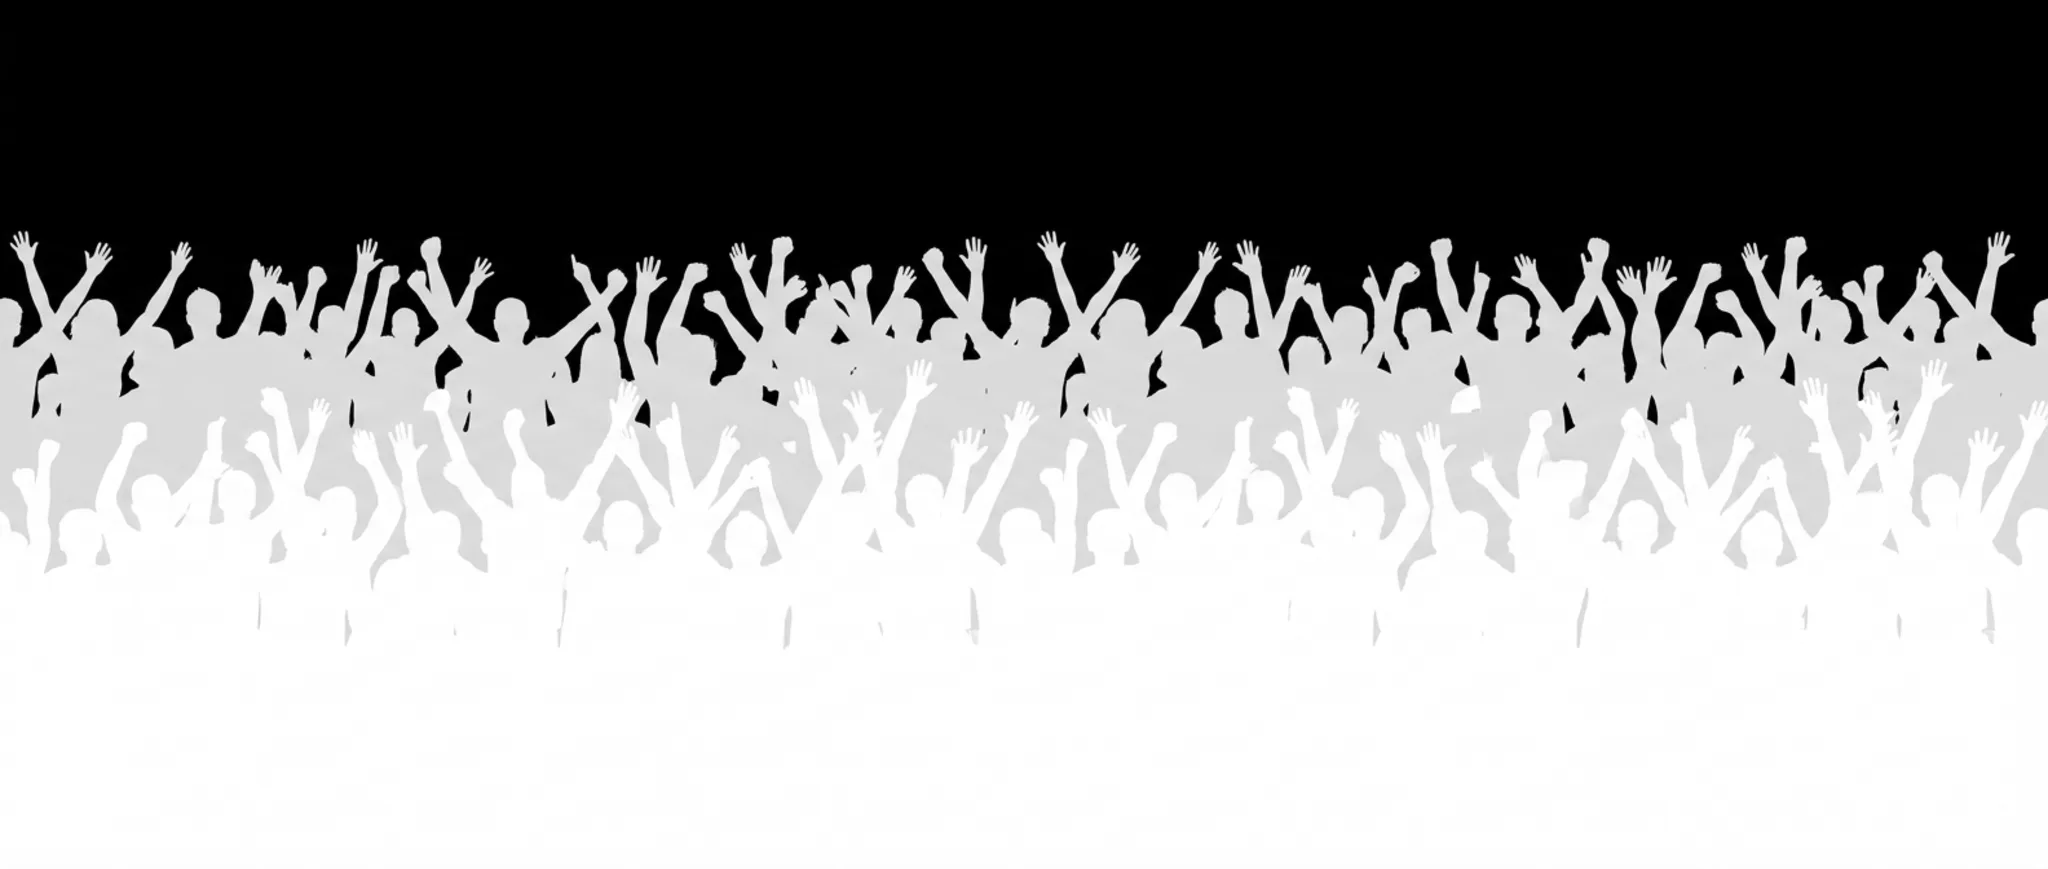
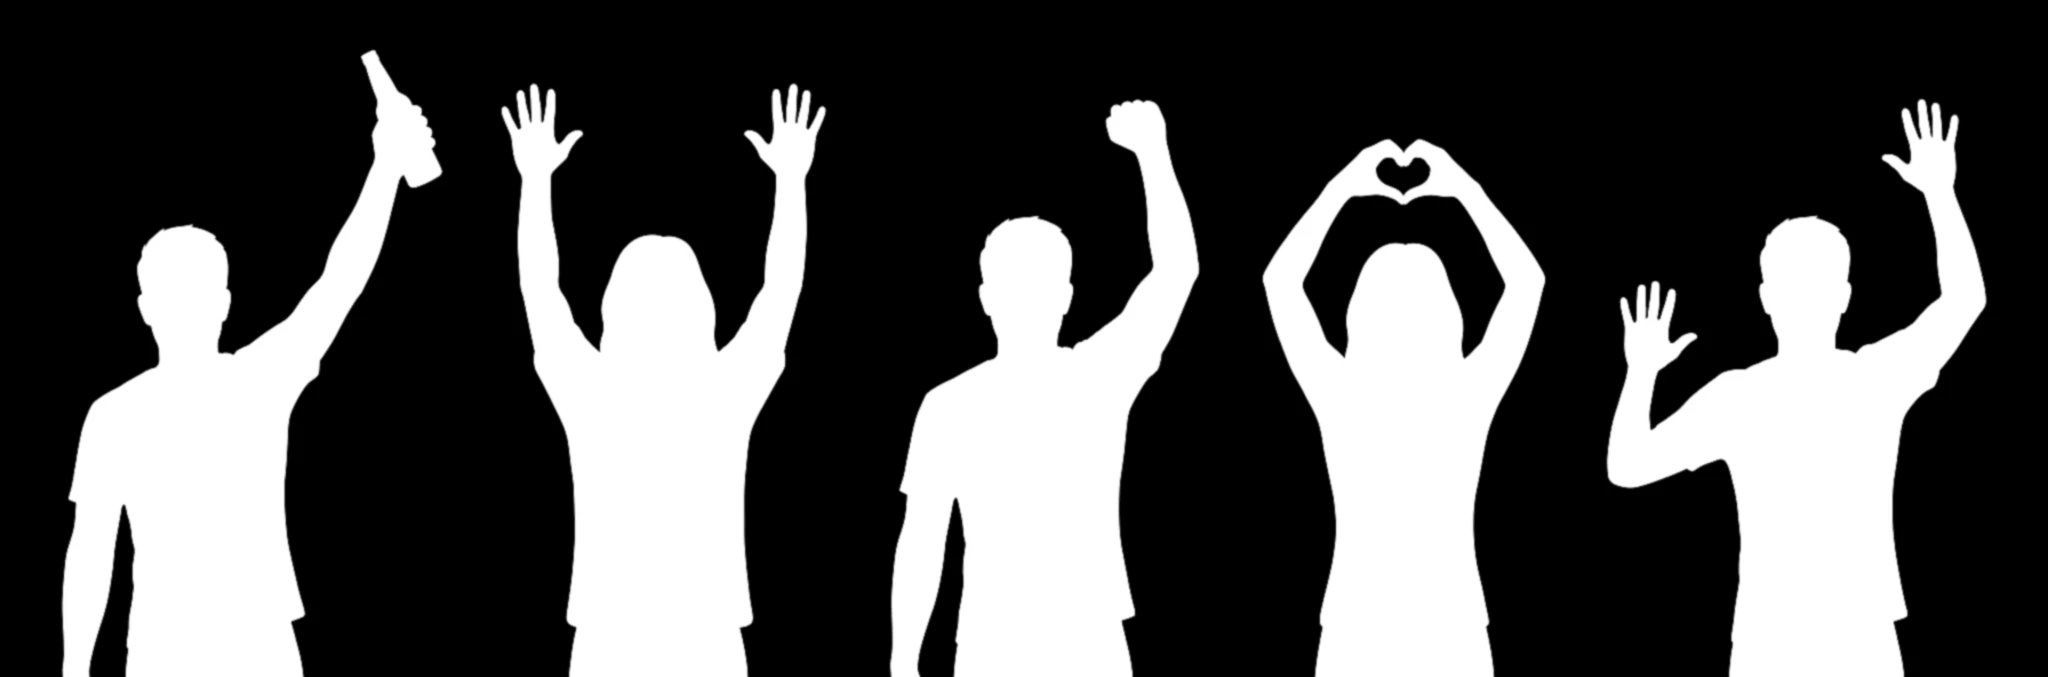
ADRIN: larger label art, front-facing hero bottle, 5 backlit fans, no flicker, slow light play on glass

diff --git a/adrin-vitamin/src/three/Party.tsx b/adrin-vitamin/src/three/Party.tsx
@@ -93,9 +93,8 @@ export function StageBeams() {
       const mat = mats[i]
       tmp.copy(b.second ? rig.accent2 : rig.accent)
       mat.uniforms.uColor.value.copy(tmp)
-      // gentle, slow shimmer — no strobing
-      const flicker = 0.8 + 0.2 * Math.sin(t * 0.9 + b.phase * 2.0)
-      mat.uniforms.uIntensity.value = damp(mat.uniforms.uIntensity.value, 0.42 * rig.beams * flicker, 3, 1 / 60)
+      // constant brightness — the beams only move, they never flicker
+      mat.uniforms.uIntensity.value = damp(mat.uniforms.uIntensity.value, 0.38 * rig.beams, 3, 1 / 60)
     })
   })
 
@@ -166,7 +165,7 @@ export function Bokeh() {
             gl_Position = projectionMatrix * mv;
             gl_PointSize = (90.0 + aSeed * 160.0) * uPR * 7.0 / -mv.z;
             vSeed = aSeed;
-            vTw = 0.6 + 0.4 * sin(uTime * (0.3 + aSeed * 0.6) + aSeed * 60.0);
+            vTw = 0.7 + 0.3 * fract(aSeed * 13.7);
           }`}
         fragmentShader={/* glsl */ `
           uniform vec3 uA; uniform vec3 uB; uniform float uOpacity;
@@ -269,7 +268,7 @@ export function Confetti() {
           void main(){
             if (vAlpha < 0.01) discard;
             vec3 col = vPick < 0.42 ? uA : (vPick < 0.74 ? uB : (vPick < 0.9 ? vec3(0.95) : mix(uA, uB, 0.5)));
-            col *= 0.35 + vGlint * 1.1;
+            col *= 0.5 + vGlint * 0.45;
             gl_FragColor = vec4(col, 0.85 * vAlpha);
           }`}
       />
@@ -279,27 +278,31 @@ export function Confetti() {
 
 /* -------------------------------- Crowd -------------------------------- */
 
+/**
+ * A handful of fans (5 silhouettes) standing behind the bottle, backlit by the stage.
+ * The rim light slowly travels along their outlines — movement only, no flicker.
+ */
 export function Crowd() {
   const mesh = useRef<THREE.Mesh>(null!)
   const tex = useMemo(() => {
     const t = new THREE.TextureLoader().load(crowdUrl)
-    t.wrapS = THREE.MirroredRepeatWrapping
+    t.wrapS = THREE.ClampToEdgeWrapping
     t.wrapT = THREE.ClampToEdgeWrapping
     t.colorSpace = THREE.NoColorSpace
     t.anisotropy = 4
     return t
   }, [])
-  const ASPECT = 2048 / 869
+  const ASPECT = 2048 / 677
   const mat = useMemo(
     () =>
       new THREE.ShaderMaterial({
         uniforms: {
           uTex: { value: tex },
-          uRepeat: { value: 1 },
           uA: { value: rig.accent.clone() },
           uB: { value: rig.accent2.clone() },
           uOpacity: { value: 1 },
           uTime: { value: 0 },
+          uTexel: { value: new THREE.Vector2(1 / 2048, 1 / 677) },
         },
         transparent: true,
         depthWrite: false,
@@ -307,23 +310,38 @@ export function Crowd() {
           varying vec2 vUv;
           void main(){ vUv = uv; gl_Position = projectionMatrix * modelViewMatrix * vec4(position, 1.0); }`,
         fragmentShader: /* glsl */ `
-          uniform sampler2D uTex; uniform float uRepeat; uniform vec3 uA; uniform vec3 uB; uniform float uOpacity; uniform float uTime;
+          uniform sampler2D uTex; uniform vec3 uA; uniform vec3 uB; uniform float uOpacity; uniform float uTime; uniform vec2 uTexel;
           varying vec2 vUv;
+          float S(vec2 p){ return texture2D(uTex, clamp(p, vec2(0.0005), vec2(0.9995))).r; }
           void main(){
-            vec2 uv = vec2((vUv.x - 0.5) * uRepeat + 0.5, vUv.y);
-            float m = texture2D(uTex, uv).r;
-            float above = texture2D(uTex, uv + vec2(0.0, 0.006)).r;
-            float alpha = smoothstep(0.25, 0.55, m);
-            float front = smoothstep(0.78, 0.93, m);
-            // back row catches stage light, front row is pure silhouette
-            vec3 lightCol = mix(uA, uB, 0.5 + 0.5 * sin(vUv.x * 9.0 + uTime * 0.4));
-            vec3 col = mix(lightCol * 0.10 + vec3(0.006), vec3(0.003, 0.002, 0.004), front);
-            // backlit rim along the heads and raised hands
-            float rim = clamp((m - above) * 2.4, 0.0, 1.0);
-            col += mix(uA, lightCol, 0.4) * rim * 0.9;
-            // fade into the floor
-            col *= smoothstep(-0.05, 0.35, vUv.y) * 0.8 + 0.2;
-            gl_FragColor = vec4(col, max(alpha, rim) * uOpacity);
+            vec2 uv = vUv;
+            // raised arms sway very slightly, more toward the top of the frame
+            uv.x += sin(uTime * 0.8 + uv.x * 14.0) * 0.0025 * uv.y * uv.y;
+            float m = S(uv);
+            // backlight: a thin rim where the stage light grazes the outline, brightest on top edges
+            vec2 o = uTexel * 3.0;
+            float ring = (S(uv + vec2(o.x, 0.0)) + S(uv - vec2(o.x, 0.0)) + S(uv + vec2(0.0, o.y)) + S(uv - vec2(0.0, o.y))
+                        + S(uv + o * 0.7) + S(uv - o * 0.7) + S(uv + vec2(o.x, -o.y) * 0.7) + S(uv + vec2(-o.x, o.y) * 0.7)) / 8.0;
+            float rim = clamp((m - ring) * 1.8, 0.0, 1.0);
+            float top = clamp((m - S(uv + vec2(0.0, o.y * 2.0))) * 2.0, 0.0, 1.0);
+            float light = rim * 0.4 + top * 0.6;
+            // the light colour drifts slowly across the group (spatial, not temporal blinking)
+            float sweep = 0.5 + 0.5 * sin(vUv.x * 5.0 - uTime * 0.25);
+            vec3 lightCol = mix(uA, uB, sweep * 0.5);
+            vec3 col = vec3(0.004, 0.003, 0.006) + lightCol * 0.025;
+            col += lightCol * light * 0.85;
+            // soft stage glow leaking around the figures (outside the silhouette)
+            vec2 w = uTexel * 16.0;
+            float wide = (S(uv + vec2(w.x, 0.0)) + S(uv - vec2(w.x, 0.0)) + S(uv + vec2(0.0, w.y)) + S(uv - vec2(0.0, w.y))) * 0.25;
+            float halo = (1.0 - smoothstep(0.35, 0.65, m)) * wide;
+            // fade into the floor + soft side edges
+            float floorFade = smoothstep(0.0, 0.35, vUv.y);
+            col *= 0.35 + 0.65 * floorFade;
+            float side = smoothstep(0.0, 0.04, vUv.x) * smoothstep(1.0, 0.96, vUv.x);
+            float body = smoothstep(0.35, 0.65, m);
+            col = mix(lightCol * 0.9, col, body);
+            float alpha = max(body, halo * 0.22) * side * uOpacity;
+            gl_FragColor = vec4(col, alpha);
           }`,
       }),
     [tex],
@@ -335,7 +353,7 @@ export function Crowd() {
     },
     [tex, mat],
   )
-  const Z = -4.6
+  const Z = -3.4
   useFrame((state) => {
     const u = mat.uniforms
     u.uA.value.copy(rig.accent)
@@ -347,13 +365,12 @@ export function Crowd() {
     const dist = cam.position.z - Z
     const halfH = Math.tan(THREE.MathUtils.degToRad(cam.fov / 2)) * dist
     const halfW = halfH * cam.aspect
-    const w = halfW * 2.3
-    // crowd fills roughly the lower third of the frame
-    const h = Math.min(halfH * 2 * (cam.aspect < 0.8 ? 0.26 : 0.36), w / ASPECT)
-    u.uRepeat.value = w / (h * ASPECT)
-    mesh.current.scale.set(w, h, 1)
-    // sink slightly with the camera's vertical parallax for depth
-    mesh.current.position.set(cam.position.x * 0.6, cam.position.y - halfH + h * 0.5 - halfH * 0.03, Z)
+    // a handful of fans, about 40% of the frame height, grouped behind the bottle
+    let h = halfH * 2 * (cam.aspect < 0.8 ? 0.3 : 0.42)
+    h = Math.min(h, (halfW * 2 * 1.15) / ASPECT)
+    mesh.current.scale.set(h * ASPECT, h, 1)
+    // anchored to the bottom of the frame, slightly below so cut-off waists never show
+    mesh.current.position.set(cam.position.x * 0.5, cam.position.y - halfH + h * 0.5 - h * 0.06, Z)
   })
   return (
     <mesh ref={mesh} material={mat} renderOrder={-4} frustumCulled={false}>

diff --git a/adrin-vitamin/src/three/BottleRig.tsx b/adrin-vitamin/src/three/BottleRig.tsx
@@ -37,6 +37,7 @@ export function BottleRig() {
   const rimL = useRef<THREE.PointLight>(null!)
   const rimR = useRef<THREE.PointLight>(null!)
   const under = useRef<THREE.PointLight>(null!)
+  const sweepL = useRef<THREE.PointLight>(null!)
 
   const poses = useMemo(() => getPoses(size.width / size.height), [size.width, size.height])
   const cur = useRef<Pose>({ ...poses[0] })
@@ -139,8 +140,9 @@ export function BottleRig() {
     if (!reduced) idle.current += P.spin * dt
     const nearest = Math.round(idle.current / TAU) * TAU
     idle.current = damp(idle.current, nearest, (1 - spinW) * 1.6, dt)
-    const sway = reduced ? 0 : Math.sin(time * 0.55) * 0.22 * (1 - spinW)
-    spin.current.rotation.y = idle.current + P.turn + boost.current.v + sway + px * 0.4
+    // small sway only, so the logo and flavour name stay readable
+    const sway = reduced ? 0 : Math.sin(time * 0.45) * 0.12 * (1 - spinW)
+    spin.current.rotation.y = idle.current + P.turn + boost.current.v + sway + px * 0.25
 
     // camera dolly + gentle parallax
     camera.position.x = damp(camera.position.x, px * 0.18, 2.5, dt)
@@ -173,6 +175,15 @@ export function BottleRig() {
     rimL.current.intensity = 20 * P.glow
     rimR.current.intensity = 15 * P.glow
     under.current.intensity = 6 + P.swirl * 14
+
+    // slow light play on the glass: the stage lights drift behind the bottle,
+    // a soft white sweep glides across the front and reflections slide over the surface
+    const lt = reduced ? 0 : time
+    rimL.current.position.set(-3.4 + Math.sin(lt * 0.23) * 1.1, 1.4 + Math.sin(lt * 0.17 + 1.0) * 1.3, -2.6)
+    rimR.current.position.set(3.6 + Math.sin(lt * 0.19 + 2.0) * 1.1, 2.2 + Math.sin(lt * 0.21) * 1.3, -2.8)
+    sweepL.current.position.set(Math.sin(lt * 0.28) * 3.2, 1.2 + Math.sin(lt * 0.13) * 1.4, 3.2)
+    sweepL.current.color.set('#ffffff').lerp(rig.accent, 0.25)
+    state.scene.environmentRotation.y = Math.sin(lt * 0.12) * 0.55
   })
 
   return (
@@ -183,6 +194,7 @@ export function BottleRig() {
       <pointLight ref={rimL} position={[-3.4, 1.4, -2.6]} intensity={30} />
       <pointLight ref={rimR} position={[3.6, 2.2, -2.8]} intensity={24} />
       <pointLight ref={under} position={[0, -3, 1.5]} intensity={6} />
+      <pointLight ref={sweepL} position={[0, 1.2, 3.2]} intensity={7} distance={9} />
       <group ref={pos}>
         <group ref={tilt}>
           <group ref={spin}>

diff --git a/adrin-vitamin/src/three/textures.ts b/adrin-vitamin/src/three/textures.ts
@@ -103,10 +103,10 @@ export function drawLabel(flavor: Flavor): HTMLCanvasElement {
 
   // --- ADRIN logo, front centre on the upper body
   const logo = getLogoImage()
-  const logoY = 0.2
+  const logoY = 0.16
   if (logo) {
     const sx = sxAt(logoY)
-    const wU = 0.62 // world width
+    const wU = 0.8 // world width
     const hU = wU * (logo.naturalHeight / logo.naturalWidth)
     const wPx = wU * PXV * sx
     const hPx = hU * PXV
@@ -134,10 +134,10 @@ export function drawLabel(flavor: Flavor): HTMLCanvasElement {
 
   // --- flavour name, white bold, front centre on the lower bulge
   const lines = flavor.labelLines
-  const nameY = lines.length > 1 ? -0.98 : -1.02
+  const nameY = lines.length > 1 ? -0.96 : -1.02
   const sxN = sxAt(nameY)
-  const maxW = 0.7 * PXV // world units → px (before squash)
-  let size = lines.length > 1 ? 150 : 170
+  const maxW = 0.8 * PXV // world units → px (before squash)
+  let size = lines.length > 1 ? 200 : 250
   ctx.font = `700 ${size}px "Space Grotesk Variable", sans-serif`
   const widest = Math.max(...lines.map((l) => ctx.measureText(l).width + l.length * size * 0.02))
   if (widest > maxW) size *= maxW / widest
@@ -147,9 +147,9 @@ export function drawLabel(flavor: Flavor): HTMLCanvasElement {
   ctx.font = `700 ${size}px "Space Grotesk Variable", sans-serif`
   ctx.textBaseline = 'middle'
   ctx.fillStyle = '#ffffff'
-  ctx.shadowColor = 'rgba(0,0,0,0.28)'
-  ctx.shadowBlur = 14
-  ctx.shadowOffsetY = 5
+  ctx.shadowColor = 'rgba(0,0,0,0.35)'
+  ctx.shadowBlur = 16
+  ctx.shadowOffsetY = 6
   const lh = size * 0.98
   lines.forEach((l, i) => spacedText(ctx, l, 0, (i - (lines.length - 1) / 2) * lh, size * 0.02, 'center'))
   ctx.shadowColor = 'transparent'
@@ -219,7 +219,7 @@ export function drawLabel(flavor: Flavor): HTMLCanvasElement {
   return c
 }
 
-export function makeLabelTexture(flavor: Flavor, anisotropy = 8) {
+export function makeLabelTexture(flavor: Flavor, anisotropy = 16) {
   const t = new THREE.CanvasTexture(drawLabel(flavor))
   t.wrapS = THREE.RepeatWrapping
   t.wrapT = THREE.ClampToEdgeWrapping

diff --git a/adrin-vitamin/src/three/Atmosphere.tsx b/adrin-vitamin/src/three/Atmosphere.tsx
@@ -73,7 +73,7 @@ export function EnergyParticles() {
             gl_Position = projectionMatrix * mv;
             float size = (aSeed > 0.93 ? 2.6 : 1.0) * (0.6 + aSeed * 0.9);
             gl_PointSize = size * uPR * 34.0 / -mv.z;
-            float tw = 0.55 + 0.45 * sin(uTime * (1.5 + aSeed * 3.0) + aSeed * 50.0);
+            float tw = 0.55 + 0.45 * fract(aSeed * 7.31);
             float edge = smoothstep(-6.0, -4.5, p.y) * (1.0 - smoothstep(4.5, 6.0, p.y));
             float near = smoothstep(0.6, 2.5, -mv.z);
             vA = uOpacity * tw * edge * near;
@@ -328,9 +328,8 @@ export function Backdrop() {
             float halo = exp(-dot(d,d) * 14.0);
             vec3 col = base + uColor * (g * 0.022 + halo * 0.04) * uIntensity;
             // stage glow rising behind the crowd
-            float band = exp(-pow((vUv.y - 0.2) / 0.17, 2.0));
-            float pulse = 0.85 + 0.15 * sin(uTime * 1.3);
-            col += uColor * band * 0.05 * uStage * pulse * (0.6 + 0.4 * (1.0 - abs(vUv.x - 0.5) * 1.4));
+            float band = exp(-pow((vUv.y - 0.34) / 0.22, 2.0));
+            col += uColor * band * 0.055 * uStage * (0.6 + 0.4 * (1.0 - abs(vUv.x - 0.5) * 1.4));
             // coloured haze in the upper corners (secondary light rig)
             col += uColor2 * 0.018 * uStage * (exp(-dot(vUv - vec2(0.05, 1.0), vUv - vec2(0.05, 1.0)) * 6.0) + exp(-dot(vUv - vec2(0.95, 1.0), vUv - vec2(0.95, 1.0)) * 6.0));
             col *= 1.0 - 0.35 * smoothstep(0.2, 0.9, length(vUv - 0.5));

diff --git a/adrin-vitamin/src/three/poses.ts b/adrin-vitamin/src/three/poses.ts
@@ -32,7 +32,7 @@ const TAU = Math.PI * 2
 
 const BASE: Pose[] = [
   // 0 hero
-  { x: 0.06, y: -0.03, scale: 1, tilt: -0.12, tiltX: 0.08, turn: -0.35, camZ: 9, particles: 0.45, swirl: 0, drops: 1, bigType: 0, spin: 0.32, glow: 0.75, beams: 0.9, crowd: 1, confetti: 0.6 },
+  { x: 0.06, y: -0.03, scale: 1, tilt: -0.08, tiltX: 0.06, turn: -0.06, camZ: 9, particles: 0.45, swirl: 0, drops: 1, bigType: 0, spin: 0, glow: 0.75, beams: 0.9, crowd: 1, confetti: 0.6 },
   // 1 formula — closer, full 360 turn on the way in
   { x: 0, y: -0.12, scale: 1, tilt: 0, tiltX: 0.02, turn: TAU, camZ: 7.1, particles: 0.75, swirl: 0, drops: 0.5, bigType: 0, spin: 0.1, glow: 0.95, beams: 0.45, crowd: 0.35, confetti: 0.25 },
   // 2 power — liquid burst
@@ -58,7 +58,7 @@ export function getPoses(aspect: number): Pose[] {
   if (aspect < 0.78) {
     // phones (portrait)
     const o: Partial<Pose>[] = [
-      { x: 0, y: -0.16, scale: 0.52, tilt: -0.1 },
+      { x: 0, y: -0.16, scale: 0.52, tilt: -0.06, turn: 0 },
       { x: 0, y: -0.04, scale: 0.5, camZ: 6.6 },
       { x: 0.02, y: -0.08, scale: 0.46, tilt: 0.22 },
       { x: 0, y: 0.1, scale: 0.5 },
